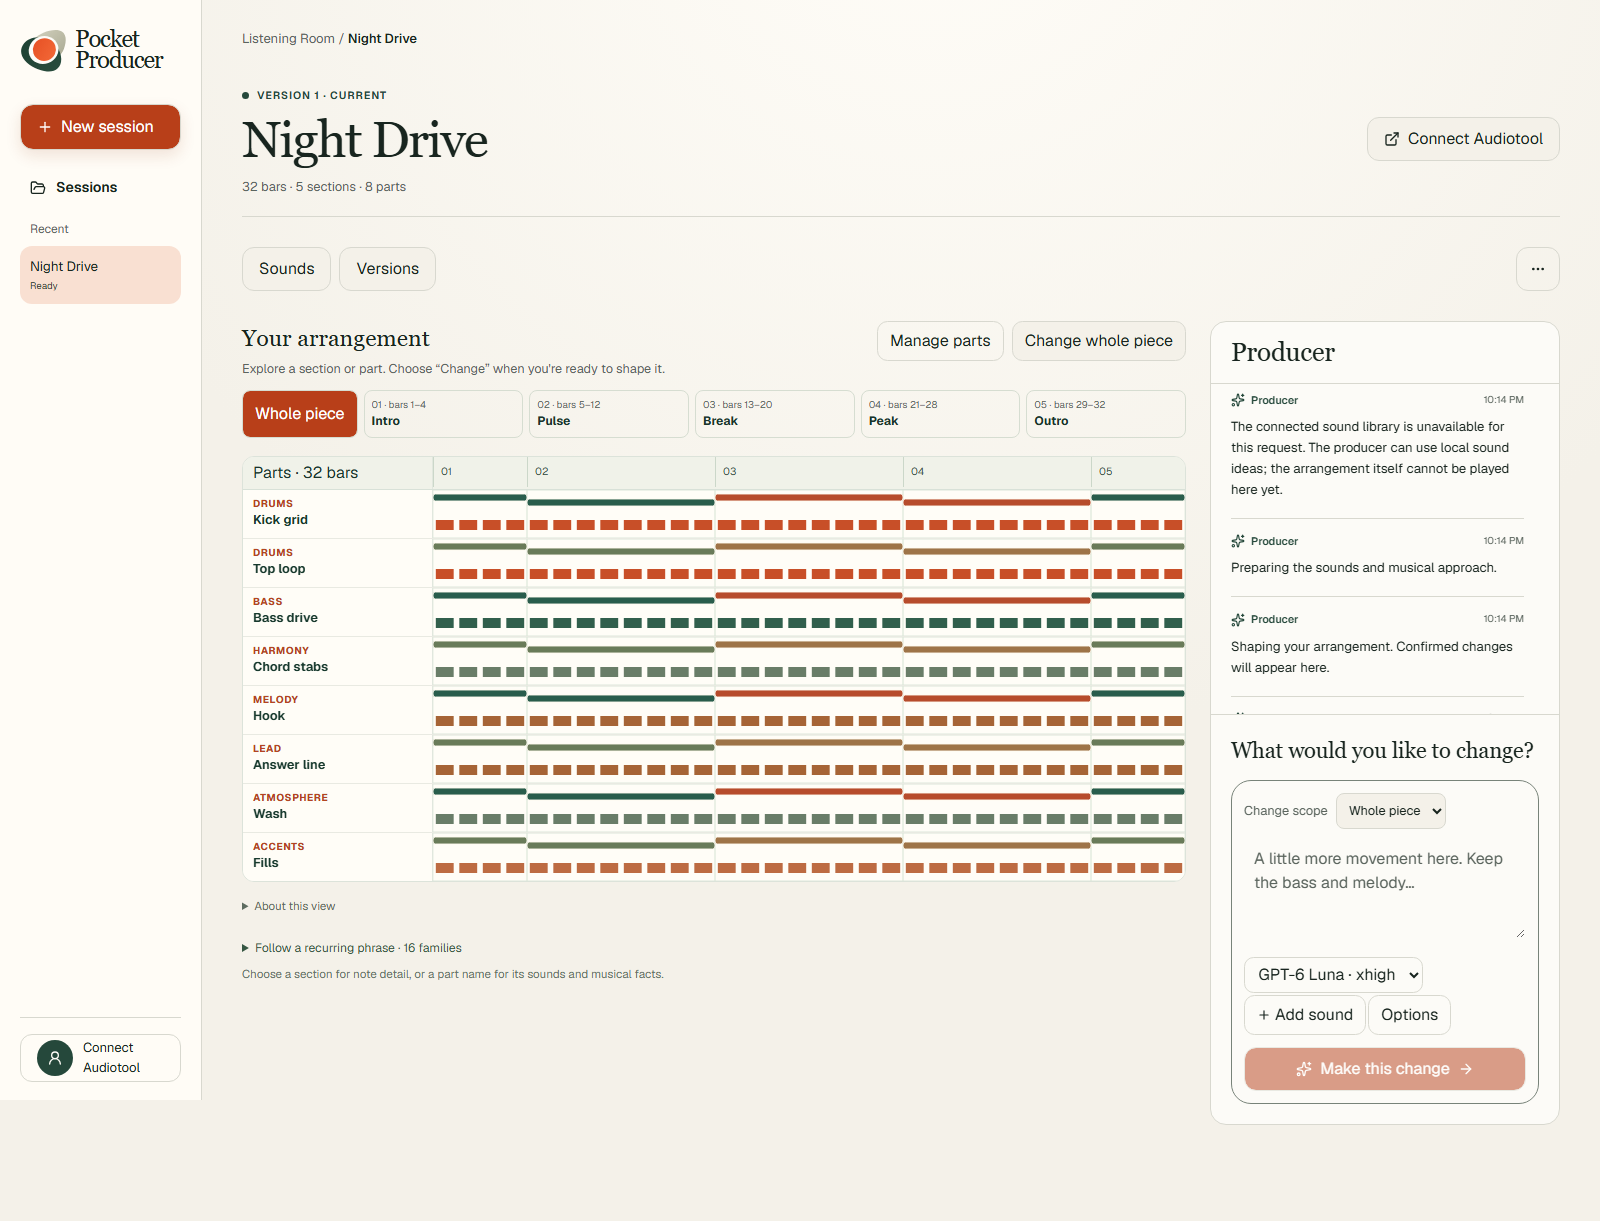
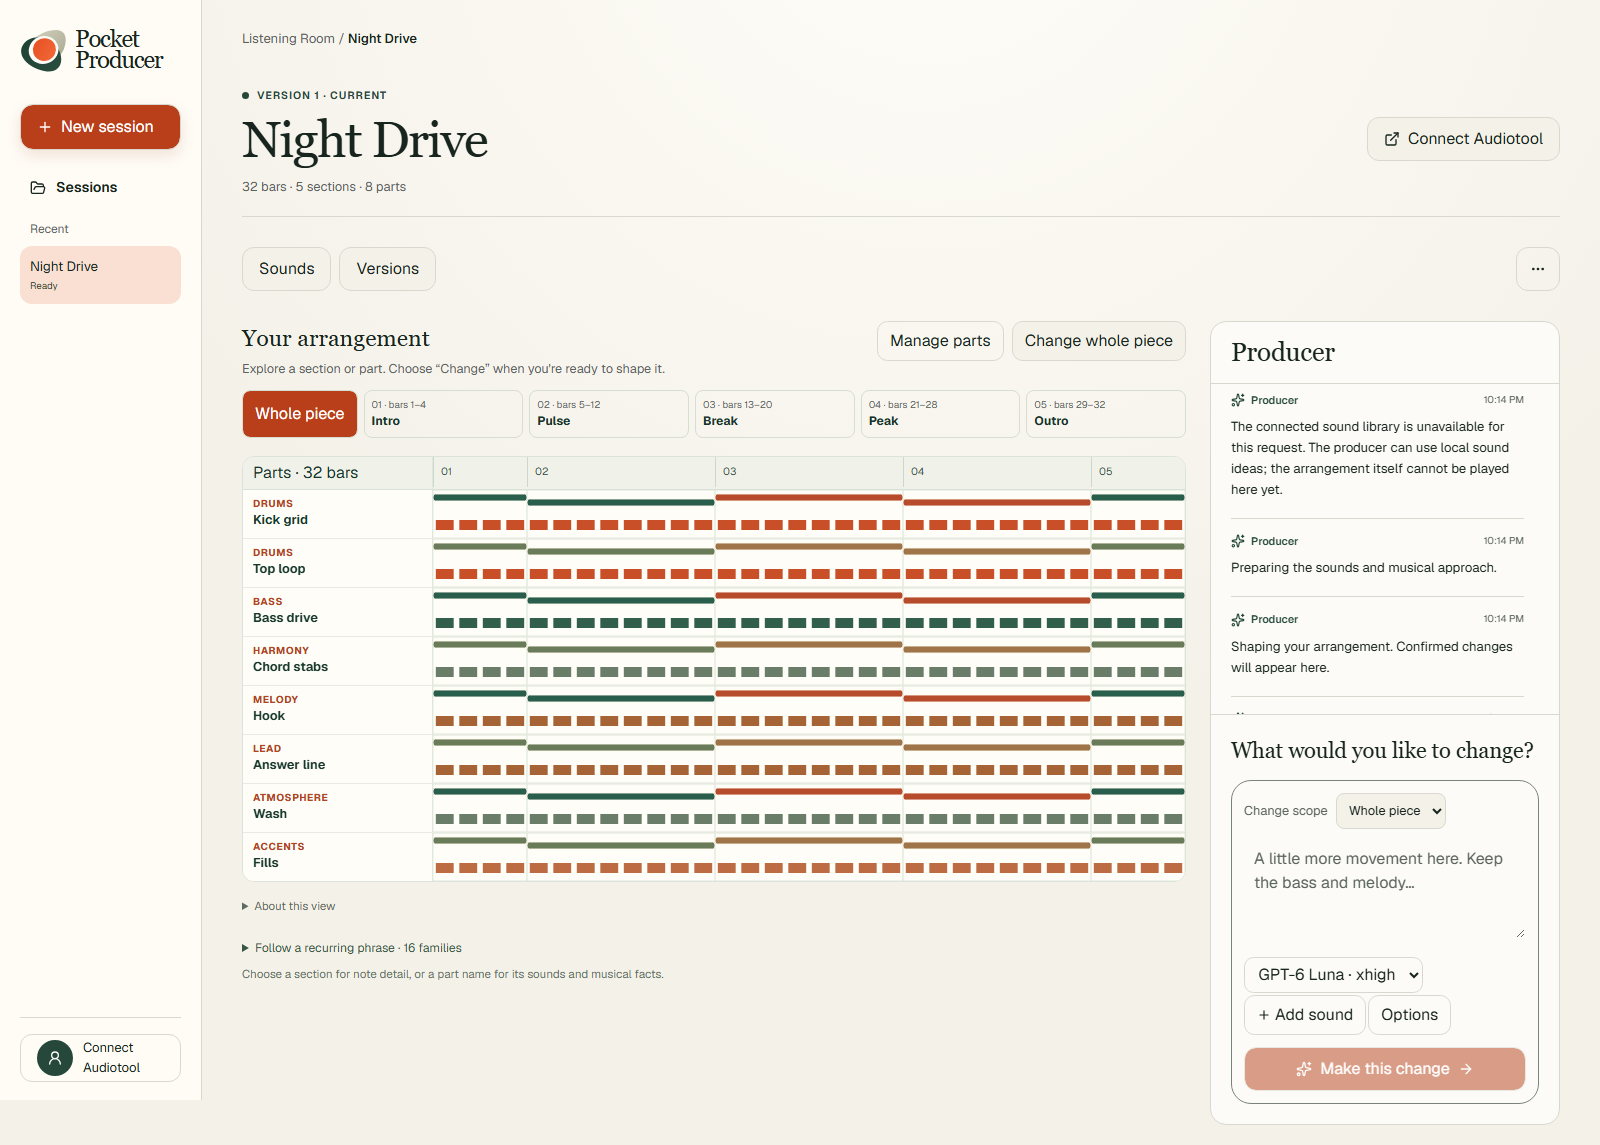
docs: simplify README and trim screenshot whitespace [skip ci]

diff --git a/README.md b/README.md
@@ -171,16 +171,6 @@ scripts/           Setup, verification and operator diagnostics
 docs/              Architecture, design, evidence and project walkthrough
 ```
 
-## Status, privacy and boundaries
-
-- **Private development preview.** Loopback authentication uses one development identity. Per-owner accounting is tested, but public multi-user authentication and deployment are not shipped.
-- **No native full-mix playback yet.** Construction validity, symbolic critique, remote structural fidelity and heard musical quality are separate kinds of evidence.
-- **Selective live evidence.** Some prior model and Audiotool-copy runs are documented; they do not certify every model, instrument, source or generated arrangement. Luna xhigh has offline request/workflow coverage, not a completed live quality evaluation.
-- **Private by default.** `.env`, local audio, OAuth encryption keys, raw traces and database data stay out of Git. LangSmith is optional; trace input/output hiding defaults to enabled. See [security guidance](SECURITY.md).
-- **No public deployment or submission is performed by these scripts.** A demo video and public-release checklist are separate delivery steps.
-
-This private snapshot does not grant a project-wide open-source license. Dependency and asset provenance are recorded in [third-party notices](THIRD_PARTY_NOTICES.md). Choose an appropriate project license before any public release.
-
 ---
 
 <div align="center"><em>A little more intention. A little more room to make it yours.</em></div>

diff --git a/docs/STATUS.md b/docs/STATUS.md
@@ -1,5 +1,9 @@
 # Live implementation status
 
+## README presentation cleanup — 2026-09-27
+
+Removed the requested “Status, privacy and boundaries” section and its license paragraph from the README; separate security/provenance documents remain unchanged. Cropped only the screenshot's bottom whitespace, from 1600×1221 to 1600×1145, retaining the complete interface and a small bottom margin. Visually inspected the crop and checked the Git diff. Documentation/image-only change; no application behavior, environment, provider calls or data changes, and no application test rerun was needed.
+
 ## Private GitHub preparation — 2026-09-27
 
 Created `theBlackfish01/PocketProducer` and verified **PRIVATE** before uploading source. Reviewed the pending model-choice and course work into separate commits, refreshed README/setup with an actual isolated-fixture screenshot, added security/provenance guidance, zero-cost first-run defaults and portable CI/install configuration. [Readiness review](REPOSITORY-READINESS.md). Existing credentials, `.env`, accepted data and financial accounting are unchanged; no paid API call, remote music mutation, deployment or submission occurred. A history/working-tree/archive credential scan found no matches; this is heuristic evidence, not a security certification.
